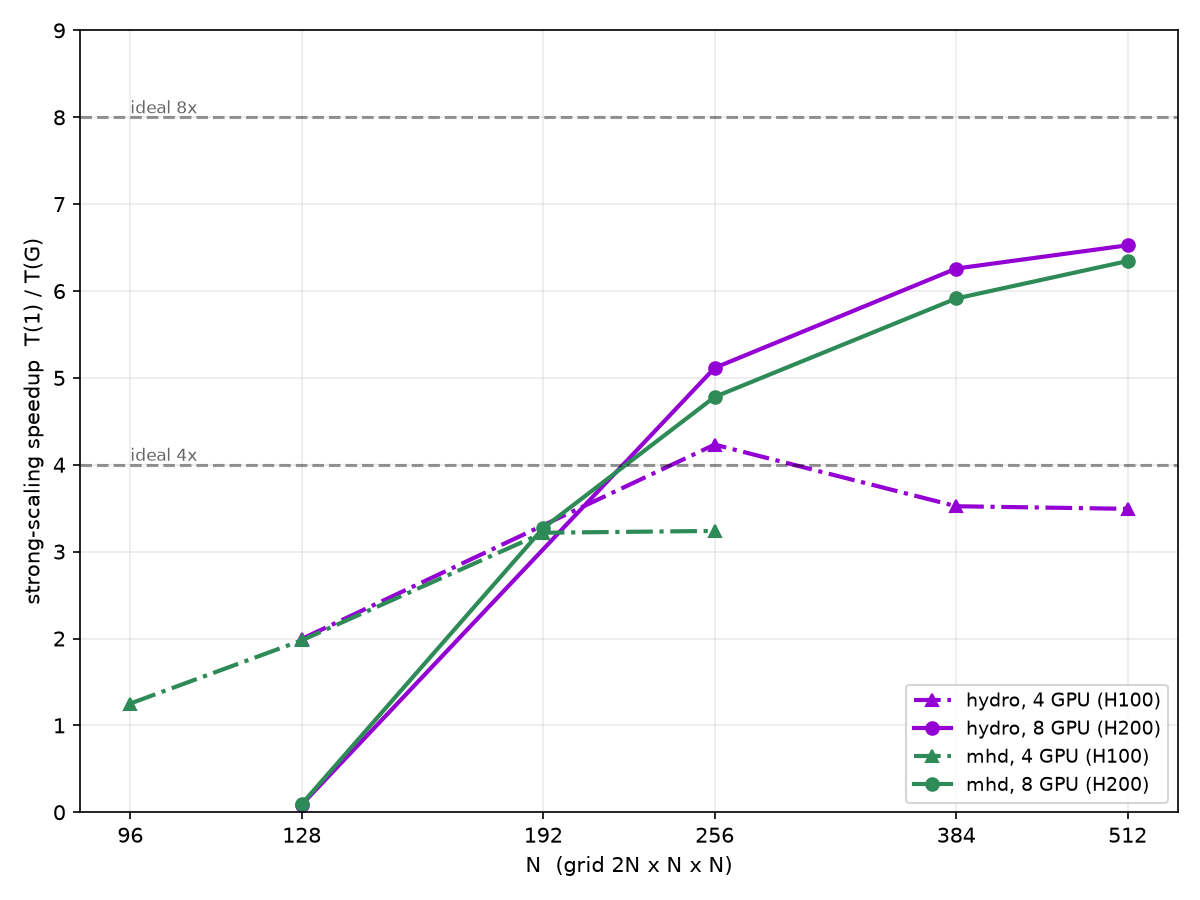
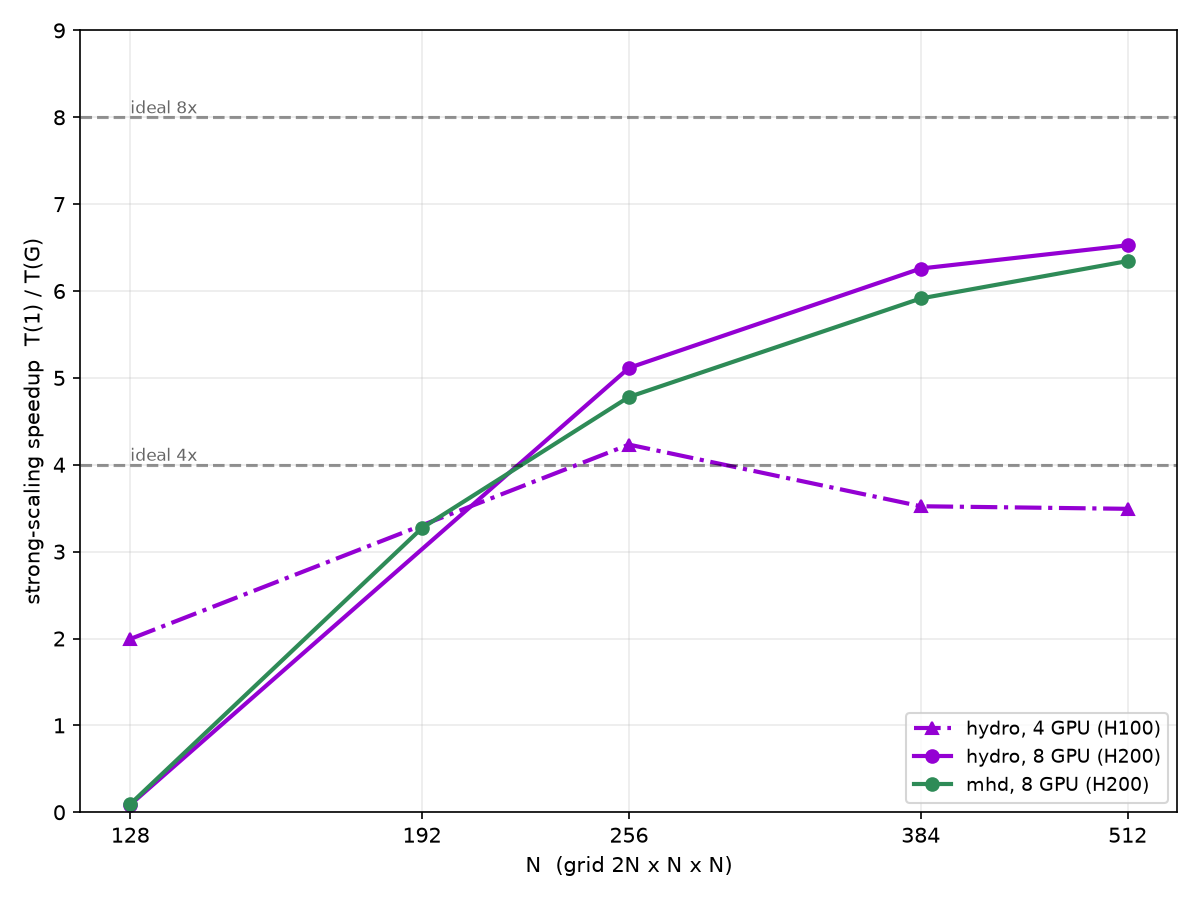
Strong speedup plot: drop MHD 4-GPU (H100) line (data only reached N=256)

diff --git a/pytests/scaling_results/plot_scaling.py b/pytests/scaling_results/plot_scaling.py
@@ -259,6 +259,8 @@ def plot_strong_speedup_combined():
     fig, ax = plt.subplots(figsize=STYLE["figsize"])
     all_N = set()
     for _f, setup, gpu, Gi, N, series in runs:
+        if setup == "mhd" and Gi == 4:
+            continue  # MHD 4-GPU (H100) data only reaches N=256 -- omit
         r1, rN = series.get("fd_pallas", (None, None))
         if r1 is None:
             continue
